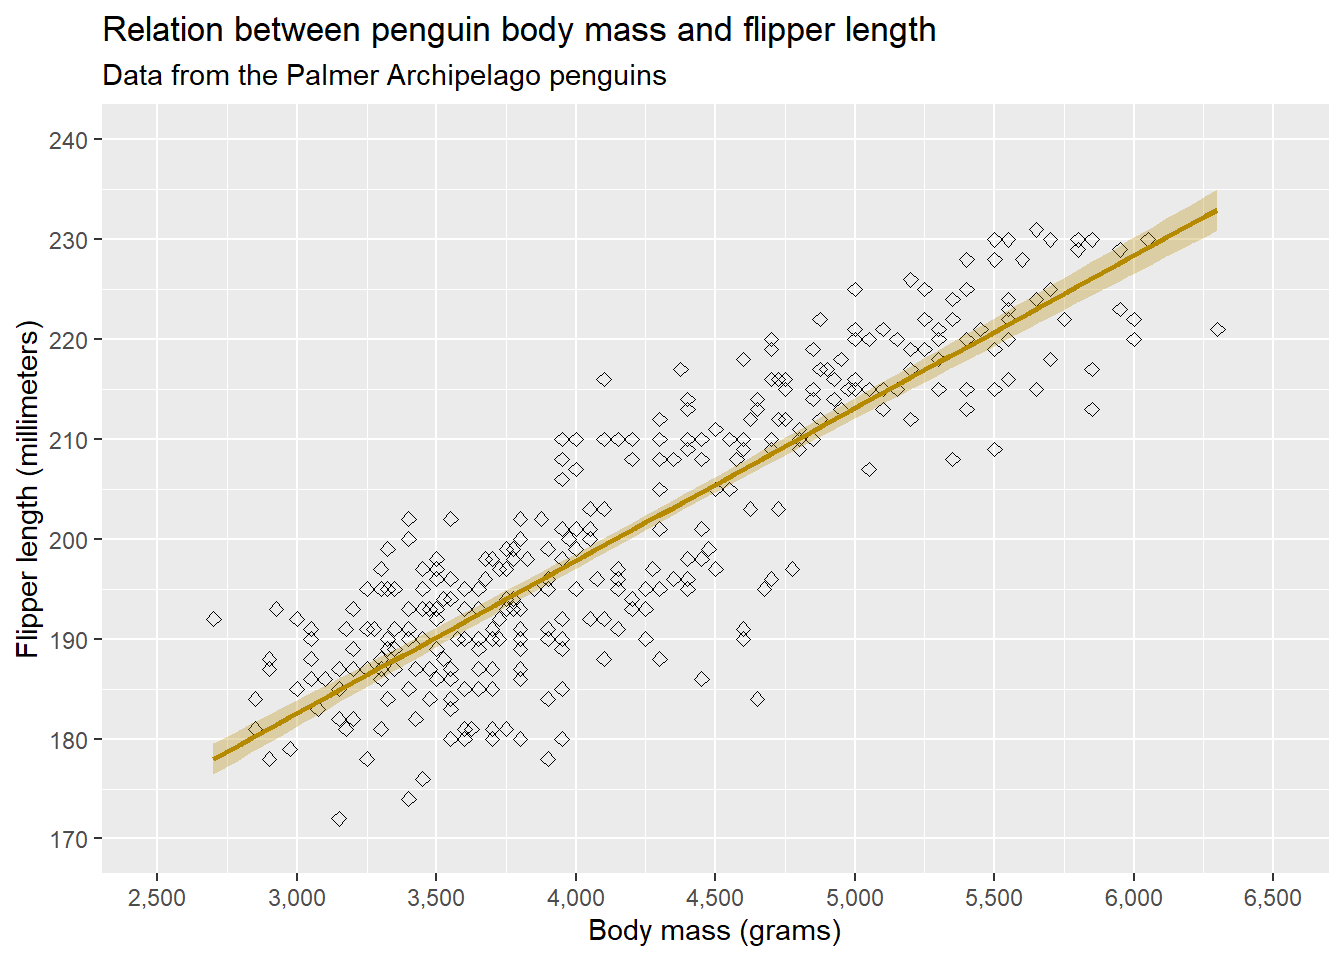
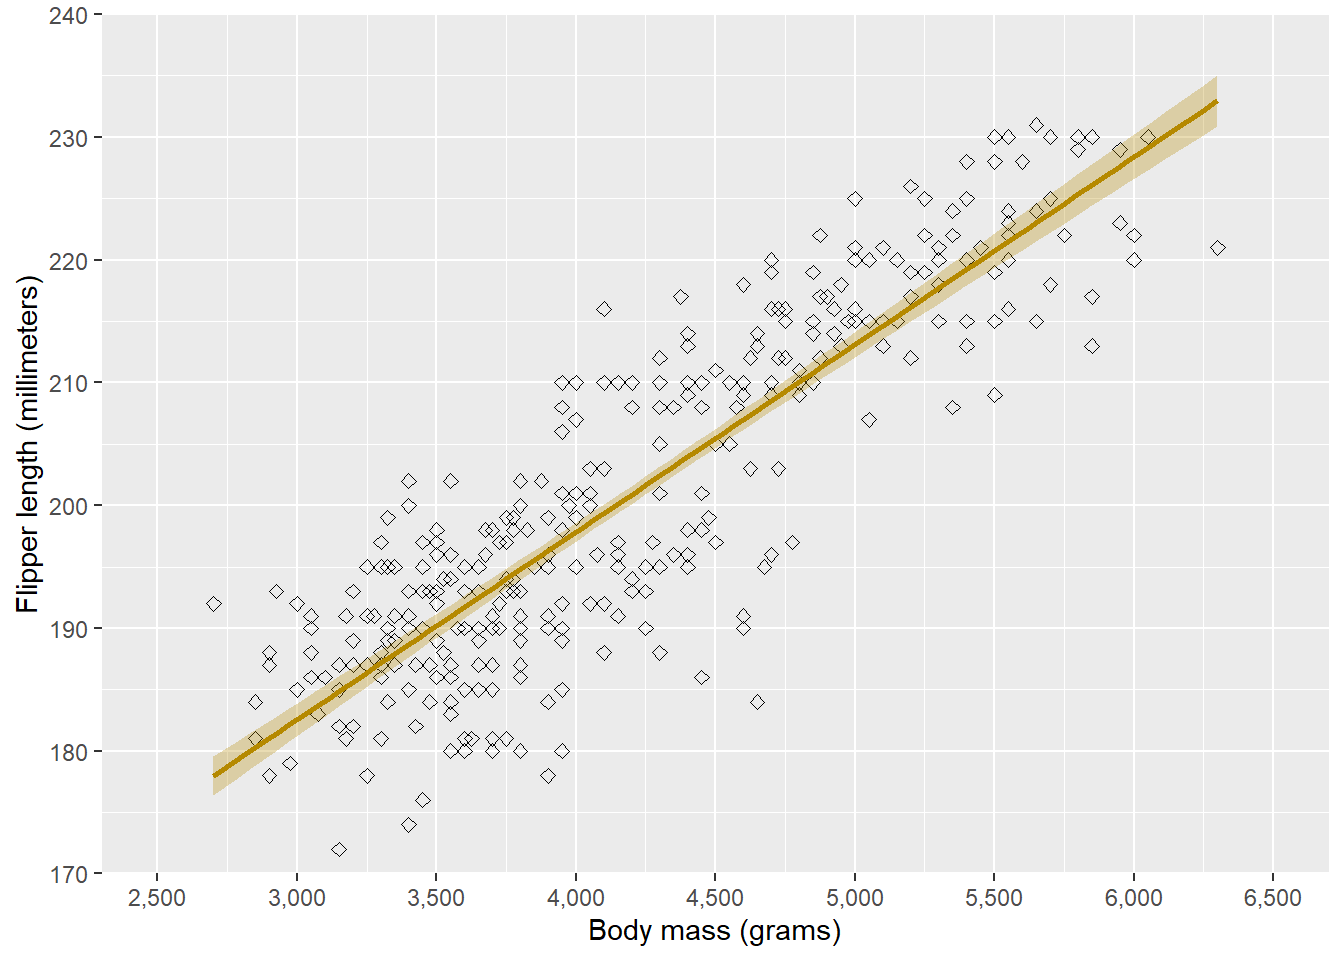
Built site for gh-pages

diff --git a/plotting.html b/plotting.html
@@ -384,8 +384,13 @@ pre > code.sourceCode > span > a:first-child::before { text-decoration: underlin
   <li><a href="#layer-2-the-geometries" id="toc-layer-2-the-geometries" class="nav-link" data-scroll-target="#layer-2-the-geometries">Layer 2: the geometries</a></li>
   <li><a href="#layer-3-the-scaling" id="toc-layer-3-the-scaling" class="nav-link" data-scroll-target="#layer-3-the-scaling">Layer 3: the scaling</a></li>
   <li><a href="#layer-4-labels" id="toc-layer-4-labels" class="nav-link" data-scroll-target="#layer-4-labels">Layer 4: labels</a></li>
-  <li><a href="#layer-5-coordinates-and-transformations" id="toc-layer-5-coordinates-and-transformations" class="nav-link" data-scroll-target="#layer-5-coordinates-and-transformations">Layer 5: coordinates and transformations</a></li>
+  <li><a href="#layer-5-coordinates-and-transformations" id="toc-layer-5-coordinates-and-transformations" class="nav-link" data-scroll-target="#layer-5-coordinates-and-transformations">Layer 5: coordinates and transformations</a>
+  <ul class="collapse">
+  <li><a href="#coord_cartesian" id="toc-coord_cartesian" class="nav-link" data-scroll-target="#coord_cartesian"><code>coord_cartesian()</code></a></li>
+  <li><a href="#facet_grid-and-facet_panel" id="toc-facet_grid-and-facet_panel" class="nav-link" data-scroll-target="#facet_grid-and-facet_panel"><code>facet_grid()</code> and <code>facet_panel()</code></a></li>
+  </ul></li>
   <li><a href="#layer-6-theme" id="toc-layer-6-theme" class="nav-link" data-scroll-target="#layer-6-theme">Layer 6: theme</a></li>
+  <li><a href="#common-errors" id="toc-common-errors" class="nav-link" data-scroll-target="#common-errors">Common errors</a></li>
   </ul></li>
   </ul>
 </nav>
@@ -552,12 +557,7 @@ Note
 </div>
 </div>
 <p>In the scale functions, we can give the name of the axis, the limits of the axis, at which points there should be ticks (<code>breaks</code>), and the labels given to each tick.</p>
-</section>
-<section id="layer-4-labels" class="level3">
-<h3 class="anchored" data-anchor-id="layer-4-labels">Layer 4: labels</h3>
-<p>In the next layer, we will apply labels to the plot, which includes the title, subtitle, axes labels, and legends.</p>
-<p>For the axes labels, we can use <code>xlab()</code> and <code>ylab()</code> respectively. We won’t need these as we specified the name already in the scaling function, but they might be useful if you do not need the scale function. The title can be specified using the <code>ggtitle()</code> function, which also allows you to specify a subtitle. Alternatively, this can be done through the <code>labs()</code> function, which allows much more control, such as a tag (for multipanel labels where you want to tag A, B, C, etc.), a caption, and alt text (for accessibility purposes).</p>
-<p>For the plot we’re building, we will aply a title and a subtitle.</p>
+<p>One more thing we can do in the scale functions is determine the expansion. By default, <code>{ggplot2}</code> expands the axes a bit so that the figure does not seem too cropped. Sometimes, however, we might want to remove or change this. If we want to remove this, we can use <code>expand = c(0, 0)</code> in the scaling arguments for each axis:</p>
 <div class="cell">
 <details class="code-fold">
 <summary>Answer</summary>
@@ -572,9 +572,8 @@ Note
 <span id="cb11-9"><a href="#cb11-9"></a>                       <span class="at">labels =</span> <span class="fu">prettyNum</span>(<span class="fu">seq</span>(<span class="dv">2500</span>, <span class="dv">6500</span>, <span class="dv">500</span>), <span class="at">big.mark =</span> <span class="st">","</span>)) <span class="sc">+</span></span>
 <span id="cb11-10"><a href="#cb11-10"></a>    <span class="fu">scale_y_continuous</span>(<span class="at">name =</span> <span class="st">"Flipper length (millimeters)"</span>,</span>
 <span id="cb11-11"><a href="#cb11-11"></a>                       <span class="at">limits =</span> <span class="fu">c</span>(<span class="dv">170</span>, <span class="dv">240</span>),</span>
-<span id="cb11-12"><a href="#cb11-12"></a>                       <span class="at">breaks =</span> <span class="fu">seq</span>(<span class="dv">170</span>, <span class="dv">240</span>, <span class="dv">10</span>)) <span class="sc">+</span></span>
-<span id="cb11-13"><a href="#cb11-13"></a>    <span class="co"># Labels</span></span>
-<span id="cb11-14"><a href="#cb11-14"></a>    <span class="fu">ggtitle</span>(<span class="st">"Relation between penguin body mass and flipper length"</span>, <span class="at">subtitle =</span> <span class="st">"Data from the Palmer Archipelago penguins"</span>)                 </span></code><button title="Copy to Clipboard" class="code-copy-button"><i class="bi"></i></button></pre></div>
+<span id="cb11-12"><a href="#cb11-12"></a>                       <span class="at">breaks =</span> <span class="fu">seq</span>(<span class="dv">170</span>, <span class="dv">240</span>, <span class="dv">10</span>),</span>
+<span id="cb11-13"><a href="#cb11-13"></a>                       <span class="at">expand =</span> <span class="fu">c</span>(<span class="dv">0</span>, <span class="dv">0</span>))                     </span></code><button title="Copy to Clipboard" class="code-copy-button"><i class="bi"></i></button></pre></div>
 </details>
 <div class="cell-output cell-output-stderr">
 <pre><code>Warning: Removed 2 rows containing non-finite outside the scale range
@@ -592,12 +591,100 @@ Note
 </div>
 </div>
 </div>
+<p>Above we only removed the expansion for the y-axis. We can also change the amount of expansion (by addition or multiplication) by supplying the <code>expansion()</code> function to the <code>expand =</code> argument. We will leave the expansion to its default again while working on our example.</p>
+</section>
+<section id="layer-4-labels" class="level3">
+<h3 class="anchored" data-anchor-id="layer-4-labels">Layer 4: labels</h3>
+<p>In the next layer, we will apply labels to the plot, which includes the title, subtitle, axes labels, and legends.</p>
+<p>For the axes labels, we can use <code>xlab()</code> and <code>ylab()</code> respectively. We won’t need these as we specified the name already in the scaling function, but they might be useful if you do not need the scale function. The title can be specified using the <code>ggtitle()</code> function, which also allows you to specify a subtitle. Alternatively, this can be done through the <code>labs()</code> function, which allows much more control, such as a tag (for multipanel labels where you want to tag A, B, C, etc.), a caption, and alt text (for accessibility purposes).</p>
+<p>For the plot we’re building, we will aply a title and a subtitle.</p>
+<div class="cell">
+<details class="code-fold">
+<summary>Answer</summary>
+<div class="sourceCode cell-code" id="cb14"><pre class="sourceCode numberSource r number-lines code-with-copy"><code class="sourceCode r"><span id="cb14-1"><a href="#cb14-1"></a><span class="fu">ggplot</span>(penguins, <span class="fu">aes</span>(<span class="at">x =</span> body_mass_g, <span class="at">y =</span> flipper_length_mm)) <span class="sc">+</span></span>
+<span id="cb14-2"><a href="#cb14-2"></a>    <span class="co"># Geometries</span></span>
+<span id="cb14-3"><a href="#cb14-3"></a>    <span class="fu">geom_point</span>(<span class="at">shape =</span> <span class="dv">5</span>) <span class="sc">+</span></span>
+<span id="cb14-4"><a href="#cb14-4"></a>    <span class="fu">geom_smooth</span>(<span class="at">method =</span> <span class="st">"lm"</span>, <span class="at">formula =</span> <span class="st">"y ~ x"</span>, <span class="at">colour =</span> <span class="st">"#B58900"</span>, <span class="at">fill =</span> <span class="st">"#B58900"</span>, <span class="at">alpha =</span> <span class="fl">0.3</span>) <span class="sc">+</span></span>
+<span id="cb14-5"><a href="#cb14-5"></a>    <span class="co"># Scaling</span></span>
+<span id="cb14-6"><a href="#cb14-6"></a>    <span class="fu">scale_x_continuous</span>(<span class="at">name =</span> <span class="st">"Body mass (grams)"</span>,</span>
+<span id="cb14-7"><a href="#cb14-7"></a>                       <span class="at">limits =</span> <span class="fu">c</span>(<span class="dv">2500</span>, <span class="dv">6500</span>),</span>
+<span id="cb14-8"><a href="#cb14-8"></a>                       <span class="at">breaks =</span> <span class="fu">seq</span>(<span class="dv">2500</span>, <span class="dv">6500</span>, <span class="dv">500</span>),</span>
+<span id="cb14-9"><a href="#cb14-9"></a>                       <span class="at">labels =</span> <span class="fu">prettyNum</span>(<span class="fu">seq</span>(<span class="dv">2500</span>, <span class="dv">6500</span>, <span class="dv">500</span>), <span class="at">big.mark =</span> <span class="st">","</span>)) <span class="sc">+</span></span>
+<span id="cb14-10"><a href="#cb14-10"></a>    <span class="fu">scale_y_continuous</span>(<span class="at">name =</span> <span class="st">"Flipper length (millimeters)"</span>,</span>
+<span id="cb14-11"><a href="#cb14-11"></a>                       <span class="at">limits =</span> <span class="fu">c</span>(<span class="dv">170</span>, <span class="dv">240</span>),</span>
+<span id="cb14-12"><a href="#cb14-12"></a>                       <span class="at">breaks =</span> <span class="fu">seq</span>(<span class="dv">170</span>, <span class="dv">240</span>, <span class="dv">10</span>)) <span class="sc">+</span></span>
+<span id="cb14-13"><a href="#cb14-13"></a>    <span class="co"># Labels</span></span>
+<span id="cb14-14"><a href="#cb14-14"></a>    <span class="fu">ggtitle</span>(<span class="st">"Relation between penguin body mass and flipper length"</span>, <span class="at">subtitle =</span> <span class="st">"Data from the Palmer Archipelago penguins"</span>)                 </span></code><button title="Copy to Clipboard" class="code-copy-button"><i class="bi"></i></button></pre></div>
+</details>
+<div class="cell-output cell-output-stderr">
+<pre><code>Warning: Removed 2 rows containing non-finite outside the scale range
+(`stat_smooth()`).</code></pre>
+</div>
+<div class="cell-output cell-output-stderr">
+<pre><code>Warning: Removed 2 rows containing missing values or values outside the scale range
+(`geom_point()`).</code></pre>
+</div>
+<div class="cell-output-display">
+<div>
+<figure class="figure">
+<p><img src="plotting_files/figure-html/unnamed-chunk-7-1.png" class="img-fluid figure-img" width="672"></p>
+</figure>
+</div>
+</div>
+</div>
 </section>
 <section id="layer-5-coordinates-and-transformations" class="level3">
 <h3 class="anchored" data-anchor-id="layer-5-coordinates-and-transformations">Layer 5: coordinates and transformations</h3>
+<section id="coord_cartesian" class="level4">
+<h4 class="anchored" data-anchor-id="coord_cartesian"><code>coord_cartesian()</code></h4>
+<p>We have already seen that we can limit our axes using the <code>limits</code> argument in the scaling functions. However, if we limit our axis too much, data that falls outside of this range will be removed. If we want to limit the axes without data being removed, we can use the arguments <code>xlim =</code> and <code>ylim =</code> in the function <code>coord_cartesian()</code>. As an example:</p>
+<div class="cell">
+<details class="code-fold">
+<summary>Answer</summary>
+<div class="sourceCode cell-code" id="cb17"><pre class="sourceCode numberSource r number-lines code-with-copy"><code class="sourceCode r"><span id="cb17-1"><a href="#cb17-1"></a><span class="fu">ggplot</span>(penguins, <span class="fu">aes</span>(<span class="at">x =</span> body_mass_g, <span class="at">y =</span> flipper_length_mm)) <span class="sc">+</span></span>
+<span id="cb17-2"><a href="#cb17-2"></a>    <span class="co"># Geometries</span></span>
+<span id="cb17-3"><a href="#cb17-3"></a>    <span class="fu">geom_point</span>(<span class="at">shape =</span> <span class="dv">5</span>) <span class="sc">+</span></span>
+<span id="cb17-4"><a href="#cb17-4"></a>    <span class="fu">geom_smooth</span>(<span class="at">method =</span> <span class="st">"lm"</span>, <span class="at">formula =</span> <span class="st">"y ~ x"</span>, <span class="at">colour =</span> <span class="st">"#B58900"</span>, <span class="at">fill =</span> <span class="st">"#B58900"</span>, <span class="at">alpha =</span> <span class="fl">0.3</span>) <span class="sc">+</span></span>
+<span id="cb17-5"><a href="#cb17-5"></a>    <span class="co"># Scaling</span></span>
+<span id="cb17-6"><a href="#cb17-6"></a>    <span class="fu">scale_x_continuous</span>(<span class="at">name =</span> <span class="st">"Body mass (grams)"</span>,</span>
+<span id="cb17-7"><a href="#cb17-7"></a>                       <span class="at">limits =</span> <span class="fu">c</span>(<span class="dv">2500</span>, <span class="dv">6500</span>),</span>
+<span id="cb17-8"><a href="#cb17-8"></a>                       <span class="at">breaks =</span> <span class="fu">seq</span>(<span class="dv">2500</span>, <span class="dv">6500</span>, <span class="dv">500</span>),</span>
+<span id="cb17-9"><a href="#cb17-9"></a>                       <span class="at">labels =</span> <span class="fu">prettyNum</span>(<span class="fu">seq</span>(<span class="dv">2500</span>, <span class="dv">6500</span>, <span class="dv">500</span>), <span class="at">big.mark =</span> <span class="st">","</span>)) <span class="sc">+</span></span>
+<span id="cb17-10"><a href="#cb17-10"></a>    <span class="fu">scale_y_continuous</span>(<span class="at">name =</span> <span class="st">"Flipper length (millimeters)"</span>,</span>
+<span id="cb17-11"><a href="#cb17-11"></a>                       <span class="at">limits =</span> <span class="fu">c</span>(<span class="dv">170</span>, <span class="dv">240</span>),</span>
+<span id="cb17-12"><a href="#cb17-12"></a>                       <span class="at">breaks =</span> <span class="fu">seq</span>(<span class="dv">170</span>, <span class="dv">240</span>, <span class="dv">10</span>)) <span class="sc">+</span></span>
+<span id="cb17-13"><a href="#cb17-13"></a>    <span class="co"># Labels</span></span>
+<span id="cb17-14"><a href="#cb17-14"></a>    <span class="fu">ggtitle</span>(<span class="st">"Relation between penguin body mass and flipper length"</span>, <span class="at">subtitle =</span> <span class="st">"Data from the Palmer Archipelago penguins"</span>) <span class="sc">+</span></span>
+<span id="cb17-15"><a href="#cb17-15"></a>    <span class="co"># Transformations</span></span>
+<span id="cb17-16"><a href="#cb17-16"></a>    <span class="fu">coord_cartesian</span>(<span class="at">xlim =</span> <span class="fu">c</span>(<span class="dv">180</span>, <span class="dv">220</span>))             </span></code><button title="Copy to Clipboard" class="code-copy-button"><i class="bi"></i></button></pre></div>
+</details>
+<div class="cell-output cell-output-stderr">
+<pre><code>Warning: Removed 2 rows containing non-finite outside the scale range
+(`stat_smooth()`).</code></pre>
+</div>
+<div class="cell-output cell-output-stderr">
+<pre><code>Warning: Removed 2 rows containing missing values or values outside the scale range
+(`geom_point()`).</code></pre>
+</div>
+<div class="cell-output-display">
+<div>
+<figure class="figure">
+<p><img src="plotting_files/figure-html/unnamed-chunk-8-1.png" class="img-fluid figure-img" width="672"></p>
+</figure>
+</div>
+</div>
+</div>
+<p>Note that now the panel is cropped on the x-axis according to <code>coord_cartesian()</code>, but that our data has remained. This is for instance useful when we have some confidence intervals that become very broad but we do not want to show the range of the y-axis over the whole range of the confidence interval. For now, we will leave it out, but it’s good to have it in our toolbox.</p>
+</section>
+<section id="facet_grid-and-facet_panel" class="level4">
+<h4 class="anchored" data-anchor-id="facet_grid-and-facet_panel"><code>facet_grid()</code> and <code>facet_panel()</code></h4>
+</section>
 </section>
 <section id="layer-6-theme" class="level3">
 <h3 class="anchored" data-anchor-id="layer-6-theme">Layer 6: theme</h3>
+</section>
+<section id="common-errors" class="level3">
+<h3 class="anchored" data-anchor-id="common-errors">Common errors</h3>
 
 
 </section>

diff --git a/data.html b/data.html
@@ -518,7 +518,7 @@ pre > code.sourceCode > span > a:first-child::before { text-decoration: underlin
 <section id="point-and-click-import" class="level3">
 <h3 class="anchored" data-anchor-id="point-and-click-import">Point-and-click import</h3>
 <p>Of course it’s nice that all these functions exist to read in your data, but they do not let us preview what the data is going to look like. If we want to preview the data before reading it, in RStudio, we can go to the menu bar, click File and then Import Dataset (<a href="#fig-import" class="quarto-xref">Figure&nbsp;1</a>):</p>
-<div id="fig-import" class="quarto-float quarto-figure quarto-figure-center anchored" data-fig-align="center" alt="import">
+<div id="fig-import" class="quarto-float quarto-figure quarto-figure-center anchored" alt="import" data-fig-align="center">
 <figure class="quarto-float quarto-float-fig figure">
 <div aria-describedby="fig-import-caption-0ceaefa1-69ba-4598-a22c-09a6ac19f8ca">
 <img src="images/import.png" class="img-fluid quarto-figure quarto-figure-center figure-img" alt="import">
@@ -529,7 +529,7 @@ Figure&nbsp;1: Import data
 </figure>
 </div>
 <p>From there, we can choose the type of data to import (e.g., Excel) and we will be presented with a viewer (<a href="#fig-viewer" class="quarto-xref">Figure&nbsp;2</a>). In the upper right corner of the viewer, we can select our data with ‘Browse’, which then shows how the data will look like after import. In the lower left corner, we can adjust some options. Lastly, in the lower right corner, we see the code that will be run to read this data into our Global Enviroment. Once happy with how the data will look upon import, we can press ‘Import’ and the data will be imported. You can then copy the code from the console to add it to your script so that you do not need to repeat this step again.</p>
-<div id="fig-viewer" class="quarto-float quarto-figure quarto-figure-center anchored" data-fig-align="center" alt="data-viewer">
+<div id="fig-viewer" class="quarto-float quarto-figure quarto-figure-center anchored" alt="data-viewer" data-fig-align="center">
 <figure class="quarto-float quarto-float-fig figure">
 <div aria-describedby="fig-viewer-caption-0ceaefa1-69ba-4598-a22c-09a6ac19f8ca">
 <img src="images/viewer.png" class="img-fluid quarto-figure quarto-figure-center figure-img" alt="data-viewer">

diff --git a/r.html b/r.html
@@ -389,7 +389,7 @@ ul.task-list li input[type="checkbox"] {
 <h2 class="anchored" data-anchor-id="installing-r">Installing R</h2>
 <p>Let’s start by installing R. R can be used on Windows, Apple, and Linux operating systems. To download R, you can go to <a href="https://cran.rstudio.com" class="uri">https://cran.rstudio.com</a>, where you can choose the download link applicable to your platform.</p>
 <p>After R is installed, you can open it and you will see the following screen:</p>
-<div id="fig-r_gui" class="quarto-float quarto-figure quarto-figure-center anchored" data-fig-align="center" alt="R graphical user interface">
+<div id="fig-r_gui" class="quarto-float quarto-figure quarto-figure-center anchored" alt="R graphical user interface" data-fig-align="center">
 <figure class="quarto-float quarto-float-fig figure">
 <div aria-describedby="fig-r_gui-caption-0ceaefa1-69ba-4598-a22c-09a6ac19f8ca">
 <img src="images/rgui.png" class="img-fluid quarto-figure quarto-figure-center figure-img" alt="R graphical user interface">
